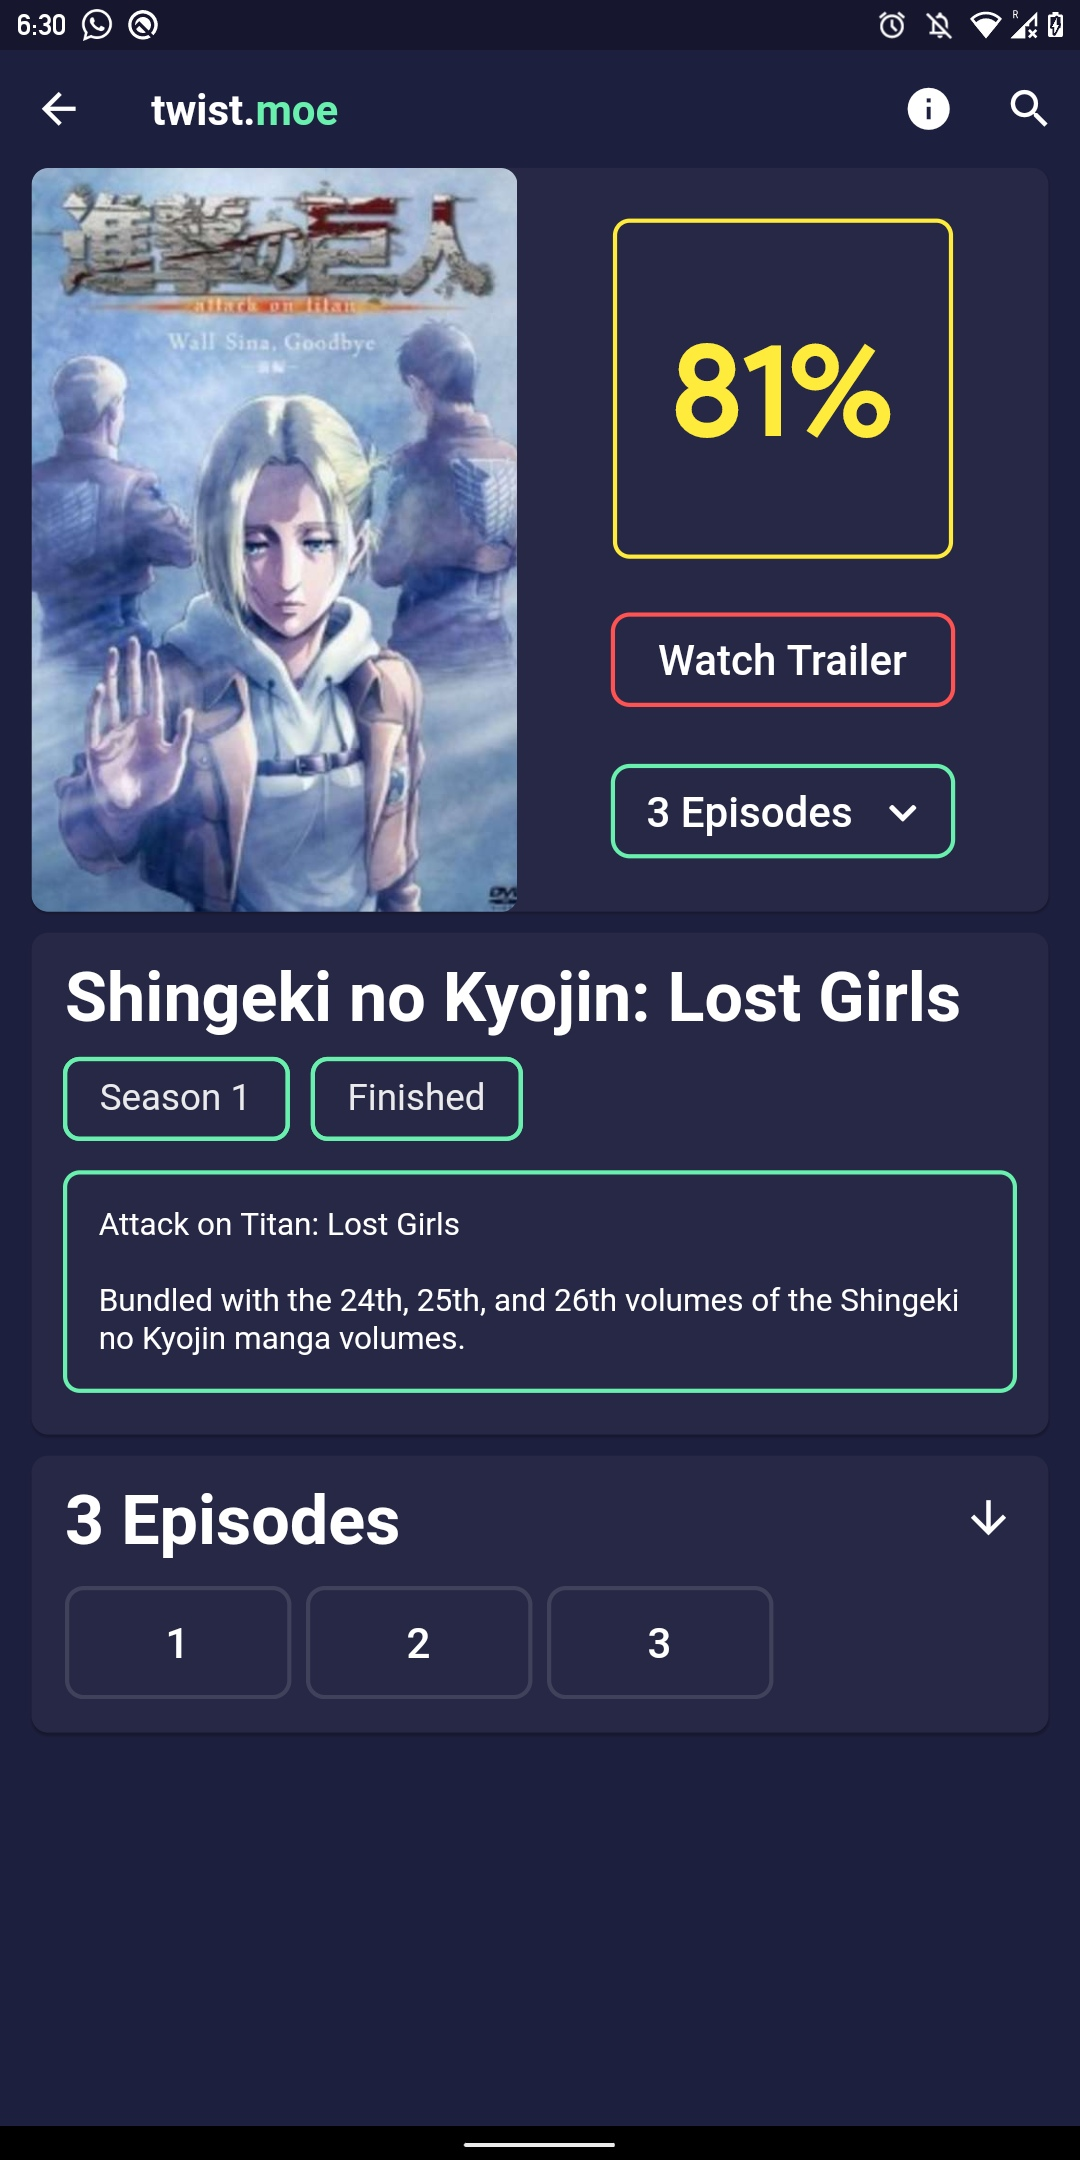
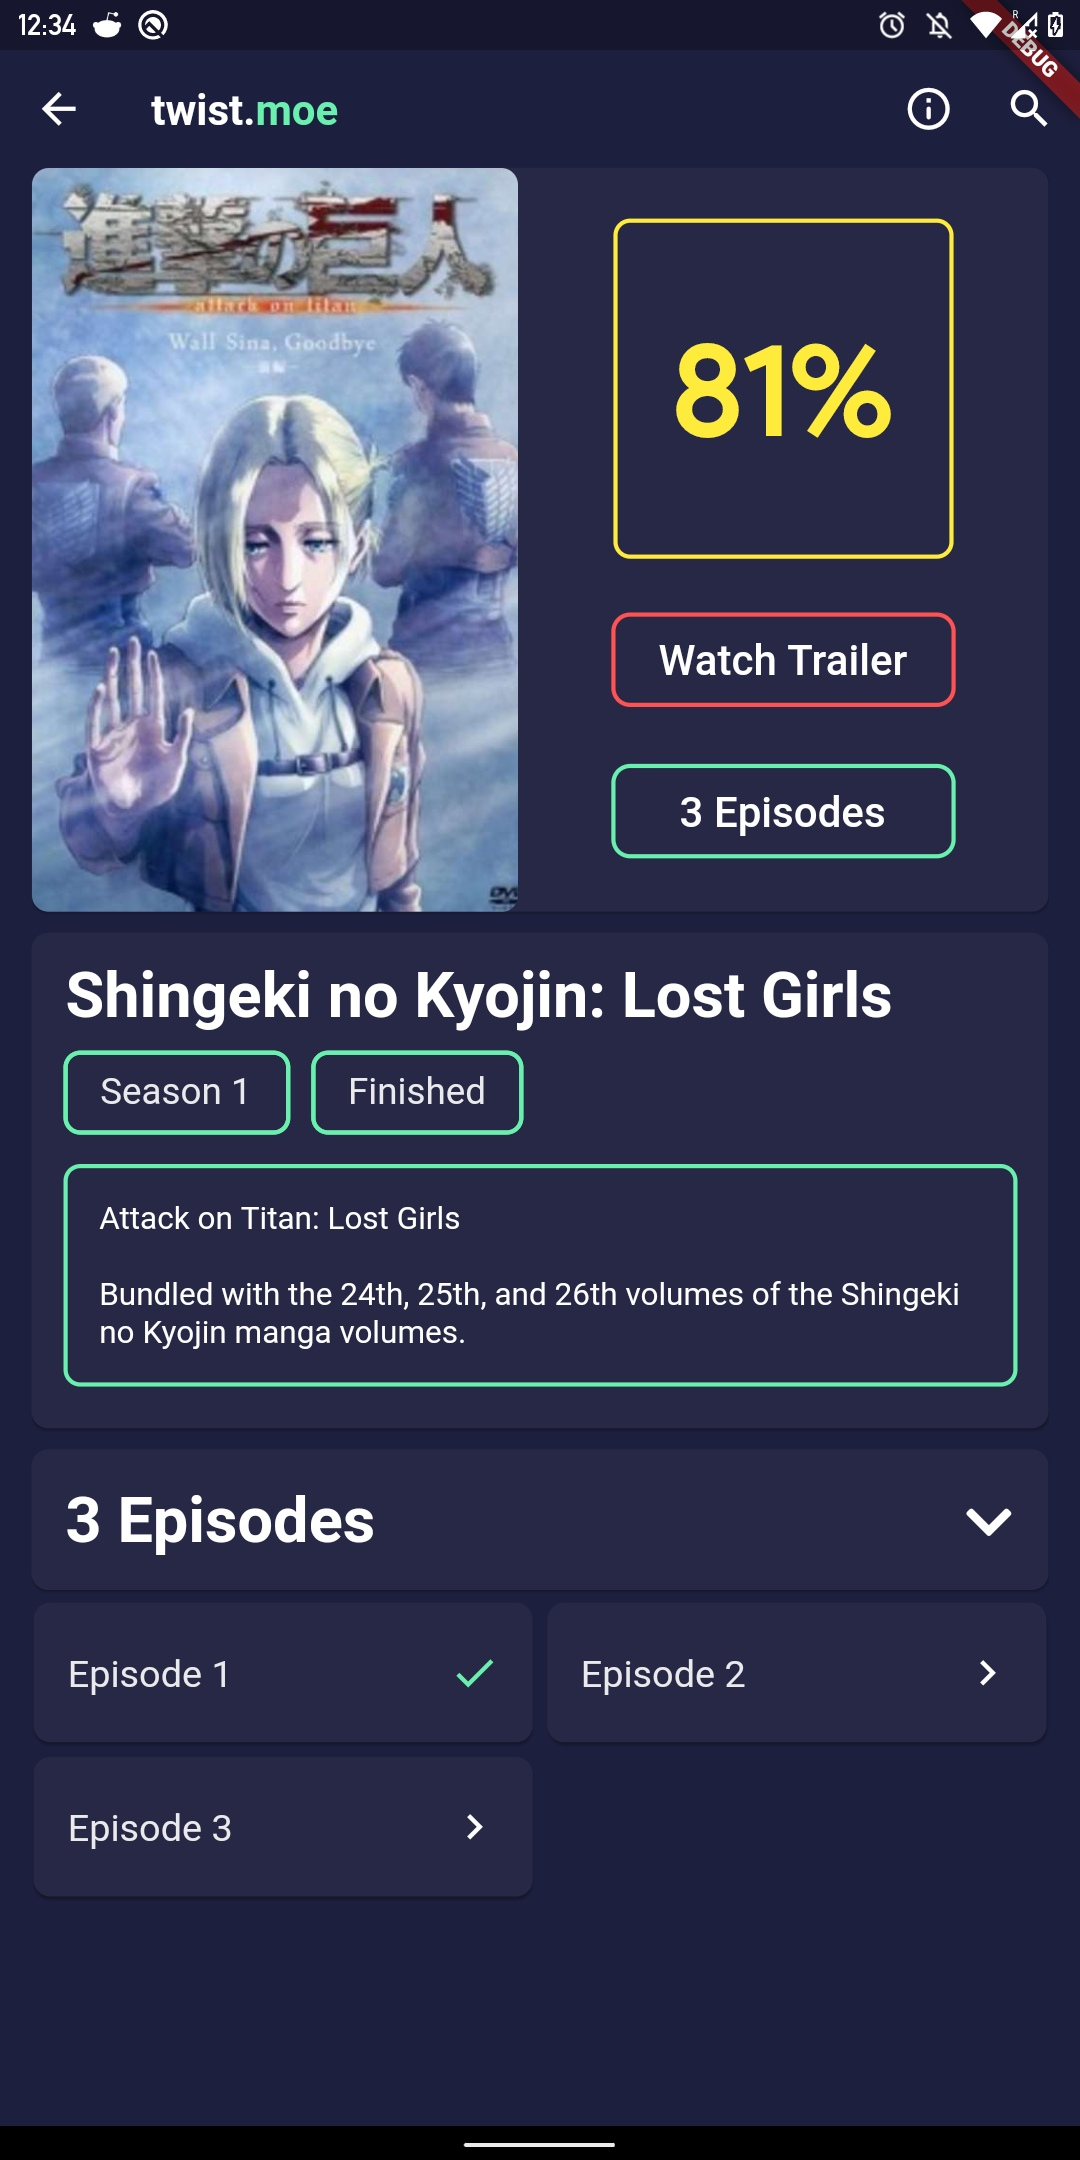
Readme: Update screenshots

diff --git a/README.md b/README.md
@@ -2,7 +2,7 @@
 
 ## An unofficial twist.moe client written in flutter
 
-<img src="screenshots/homepage.jpg" width="200">    <img src="screenshots/animeinfopage.jpg" width="200">    <img src="screenshots/search.jpg" width="200">    <img src="screenshots/watchpage.jpg" width="10000">   <img src="screenshots/btcdonationsheet.jpg" width="200">   <img src="screenshots/chat.jpg" width="200">   <img src="screenshots/allanimepage.jpg" width="200">
+<img src="screenshots/homepage.jpg" width="200">    <img src="screenshots/animeinfopage.jpg" width="200">    <img src="screenshots/animeinfopage2.jpg" width="200">    <img src="screenshots/search.jpg" width="200">    <img src="screenshots/watchpage.jpg" width="10000">   <img src="screenshots/btcdonationsheet.jpg" width="200">   <img src="screenshots/chat.jpg" width="200">   <img src="screenshots/allanimepage.jpg" width="200">
 
 ## Building
     flutter pub get
